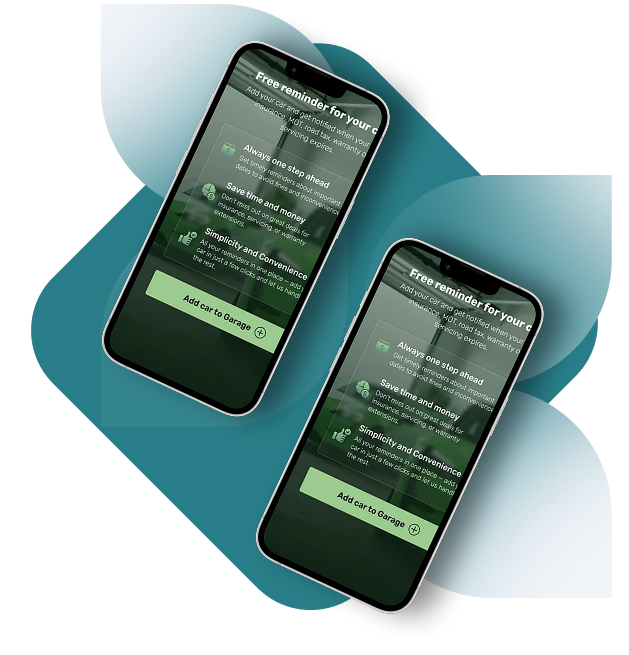
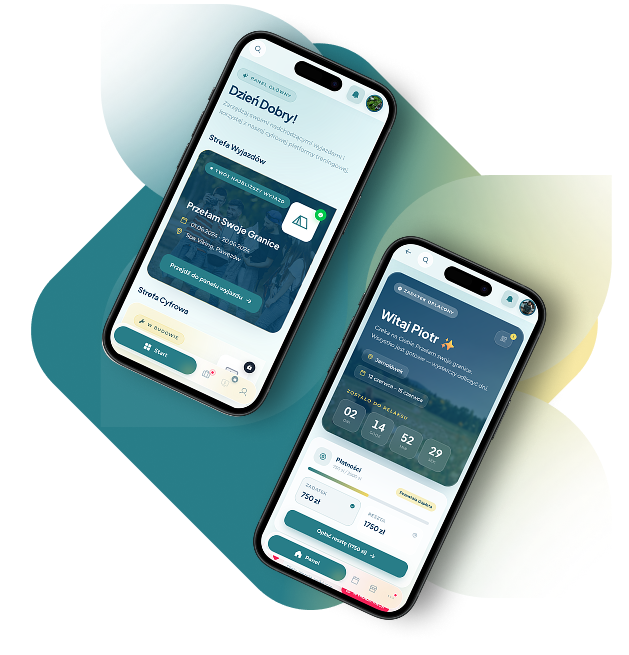
Added change to the images

diff --git a/public/sw.js b/public/sw.js
@@ -1,10 +1,14 @@
-// Minimalny Service Worker spełniający kryteria PWA installability w Chrome.
-// Chrome wymaga zarejestrowanego SW z handlerem 'fetch', żeby wyemitować
-// 'beforeinstallprompt' i pokazać button instalacji.
+// Service Worker dla PWA + push OneSignal (jeden plik, współdzielony — patrz
+// OneSignalProvider: serviceWorkerPath: "sw.js").
 //
-// Strategia: network-only passthrough (zero cache).
-// Jeśli kiedyś będziemy chcieli offline mode — tu jest miejsce na rozbudowę
-// (Workbox, cache-first dla statycznych assetów itd.).
+// Strategia: brak własnej obsługi 'fetch'. Pusty handler 'fetch' został usunięty —
+// współczesny Chrome (≥89) NIE wymaga go już do instalowalności PWA (wystarczy
+// zarejestrowany SW + manifest), a pusty no-op tylko dokładał narzut i ostrzeżenie
+// "no-op fetch handler" przy każdej nawigacji.
+//
+// WAŻNE: powiadomienia push działają niezależnie od tego pliku — wszystkie handlery
+// (push, notificationclick, message, pushsubscriptionchange) dostarcza SDK OneSignal
+// ładowane przez importScripts poniżej. Dlatego usunięcie 'fetch' nie rusza OneSignal.
 
 self.addEventListener("install", (event) => {
   self.skipWaiting();
@@ -14,8 +18,4 @@ self.addEventListener("activate", (event) => {
   event.waitUntil(self.clients.claim());
 });
 
-self.addEventListener("fetch", (event) => {
-  // Passthrough — nie chcemy interferować ze streamami Next.js (RSC, server actions).
-  // Brak respondWith() = przeglądarka leci normalnie do sieci.
-});
 importScripts("https://cdn.onesignal.com/sdks/web/v16/OneSignalSDK.sw.js");

diff --git a/next.config.ts b/next.config.ts
@@ -10,6 +10,9 @@ const nextConfig: NextConfig = {
     // AVIF dla przeglądarek które go wspierają (mniejszy o ~30% od WebP),
     // WebP jako fallback dla starszych. Oba lepiej kompresują od JPG/PNG.
     formats: ["image/avif", "image/webp"],
+    // Next 16 wymaga jawnej listy dozwolonych wartości `quality` w <Image>.
+    // 75 = domyślna, 80 = okładki hero (campy_hero).
+    qualities: [75, 80],
     remotePatterns: [
       {
         protocol: "https",

diff --git a/src/app/(site)/_components/SocialProofSection.tsx b/src/app/(site)/_components/SocialProofSection.tsx
@@ -273,6 +273,7 @@ function StatBadge({
           src={imageSrc}
           fill
           alt={label}
+          sizes="110px"
           className="object-cover rounded-full"
         />
         {IconOrPath && (
